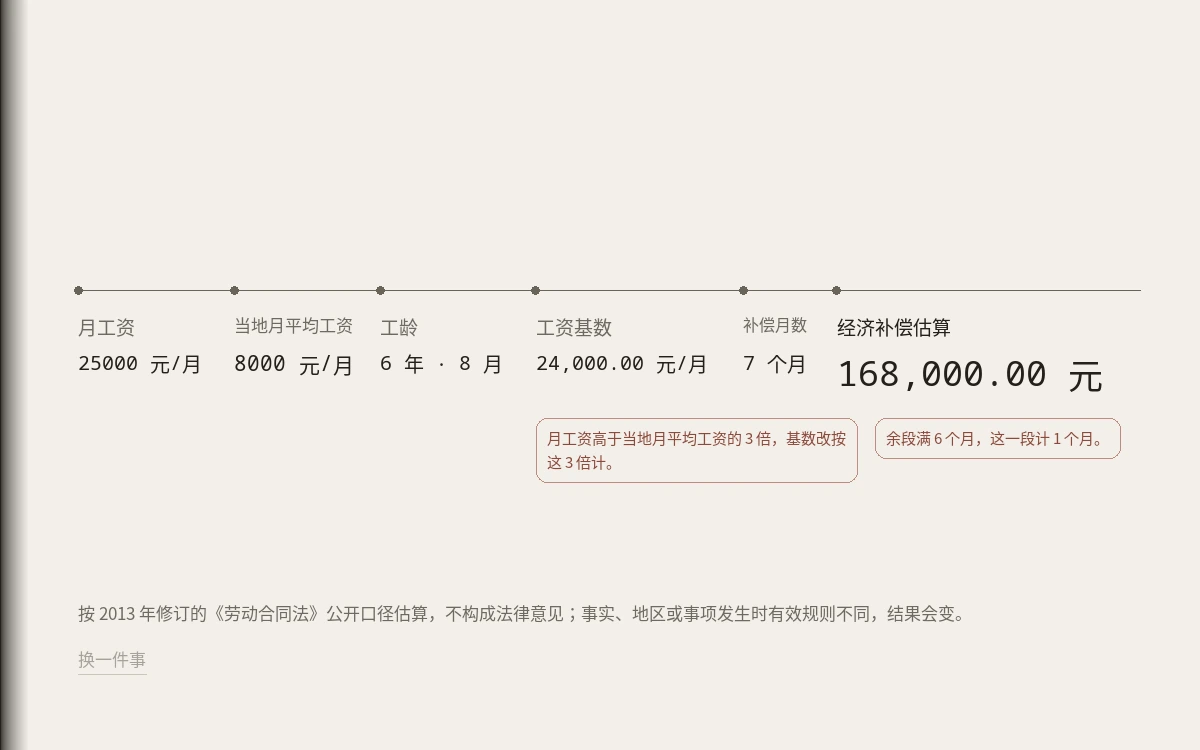
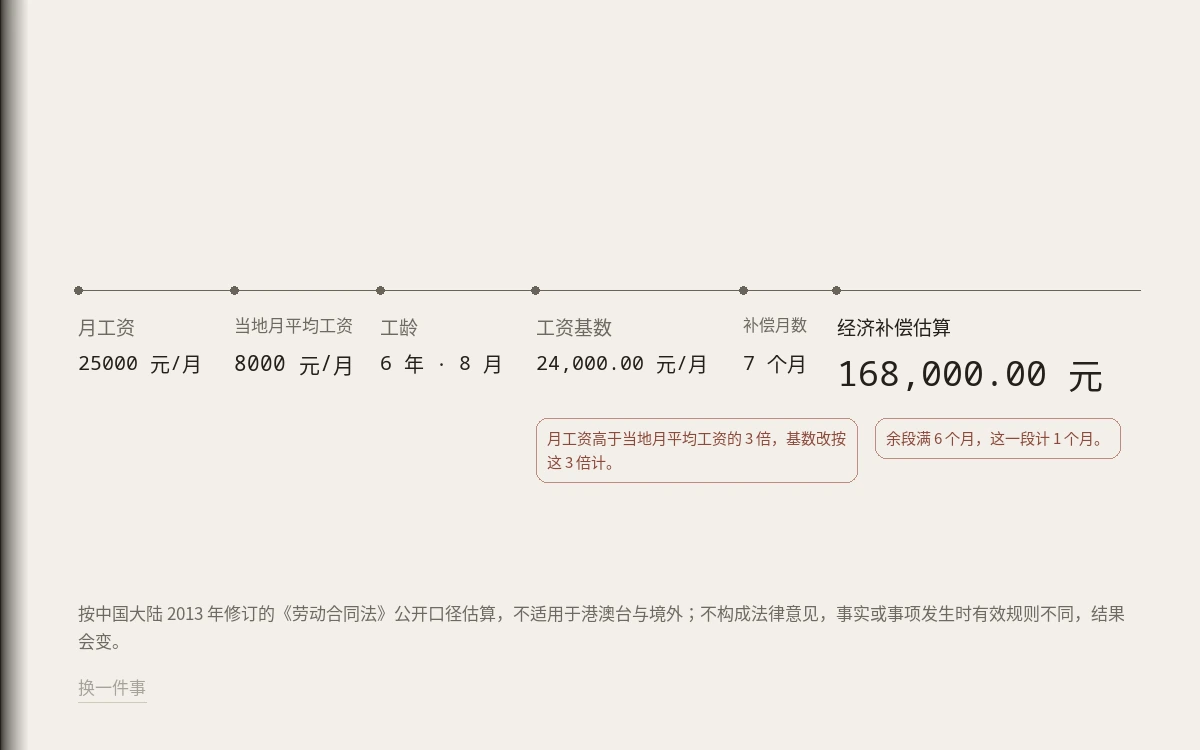
legal-calculator-01: 把适用地区补回那行脚注
V1 实测：设计文档 §0 要求「适用地区边界」与「不构成法律意见」都能直接读到，
后半句在，前半句在插件三个文件与装载后整屏都是 0 —— 上一轮删「适用地区与免责声明」
那一整块带标题的说明时，把地区这件事本身也一起删了。境外用户会拿着一个对他无效的数去谈判。

- 三条链的脚注各自补上「按中国大陆…公开口径估算，不适用于港澳台与境外」，
  仍是一行淡字：无标题、无面板、不展开，每条链只有一行
- uitest 增加一项：三条链的脚注都必须同时读到适用地区与「不构成法律意见」，
  且那行里不许长出子元素（防止又变成一块带标题的说明）
- 封面重出：脚注是屏上真实那一行，两行内排完

Changed region(s): [[0.0617, 0.7973, 0.9558, 0.9507]]

diff --git a/content/active-runtime/plugin/legal-calculator-01/index.html b/content/active-runtime/plugin/legal-calculator-01/index.html
@@ -54,7 +54,7 @@
         <span class="entry"><b class="value big" id="labor-amount"></b><b>元</b></span>
       </li>
     </ol>
-    <p class="edge">按 2013 年修订的《劳动合同法》公开口径估算，不构成法律意见；事实、地区或事项发生时有效规则不同，结果会变。</p>
+    <p class="edge">按中国大陆 2013 年修订的《劳动合同法》公开口径估算，不适用于港澳台与境外；不构成法律意见，事实或事项发生时有效规则不同，结果会变。</p>
   </section>
 
   <section class="chain" id="chain-overtime" hidden aria-label="加班工资估算">
@@ -83,7 +83,7 @@
         <span class="entry"><b class="value big" id="overtime-amount"></b><b>元</b></span>
       </li>
     </ol>
-    <p class="edge">按《劳动法》与 2008 年起 21.75 天月计薪天数的公开口径估算，不构成法律意见；事实、地区或事项发生时有效规则不同，结果会变。</p>
+    <p class="edge">按中国大陆《劳动法》与 2008 年起 21.75 天月计薪天数的公开口径估算，不适用于港澳台与境外；不构成法律意见，事实或事项发生时有效规则不同，结果会变。</p>
   </section>
 
   <section class="chain" id="chain-fee" hidden aria-label="案件受理费">
@@ -105,7 +105,7 @@
         <span class="entry"><b class="value big" id="fee-amount"></b><b>元</b></span>
       </li>
     </ol>
-    <p class="edge">按 2007 年《诉讼费用交纳办法》公开口径估算，不构成法律意见；实际收费以受理法院为准，规则变化后结果会变。</p>
+    <p class="edge">按中国大陆 2007 年《诉讼费用交纳办法》公开口径估算，不适用于港澳台与境外；不构成法律意见，实际收费以受理法院为准，规则变化后结果会变。</p>
   </section>
 
   <button type="button" class="again" id="again" hidden>换一件事</button>
